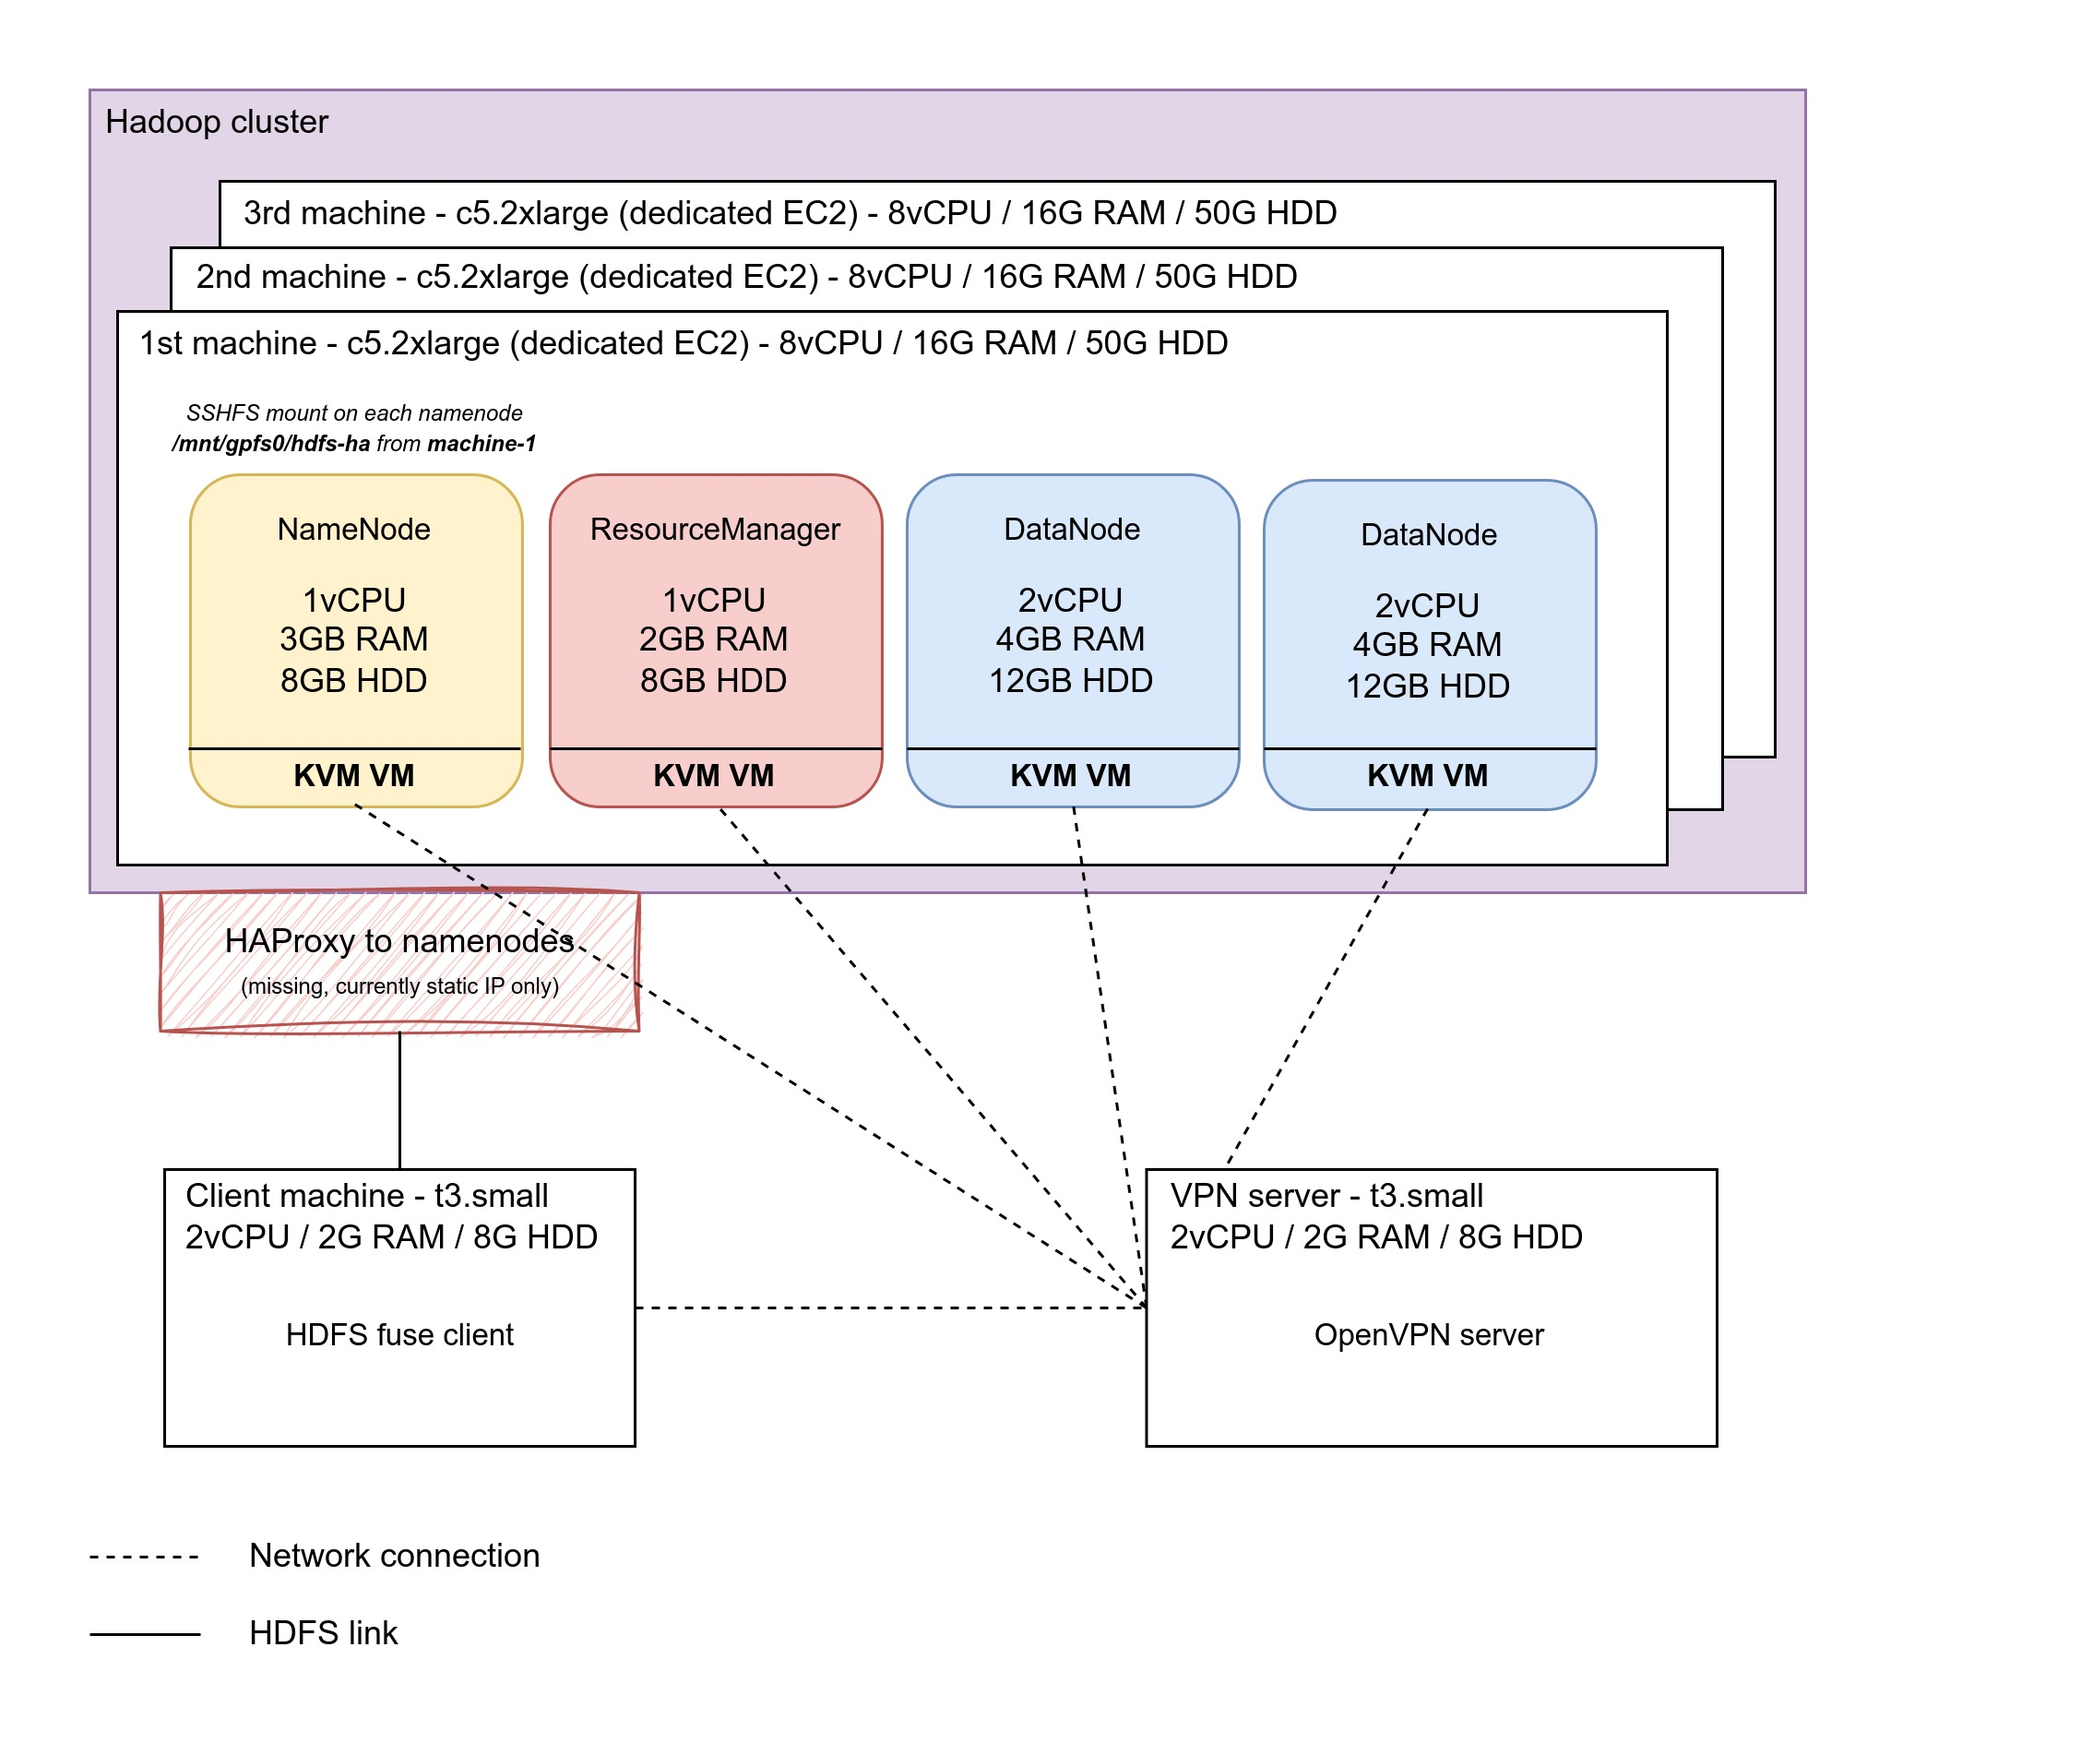
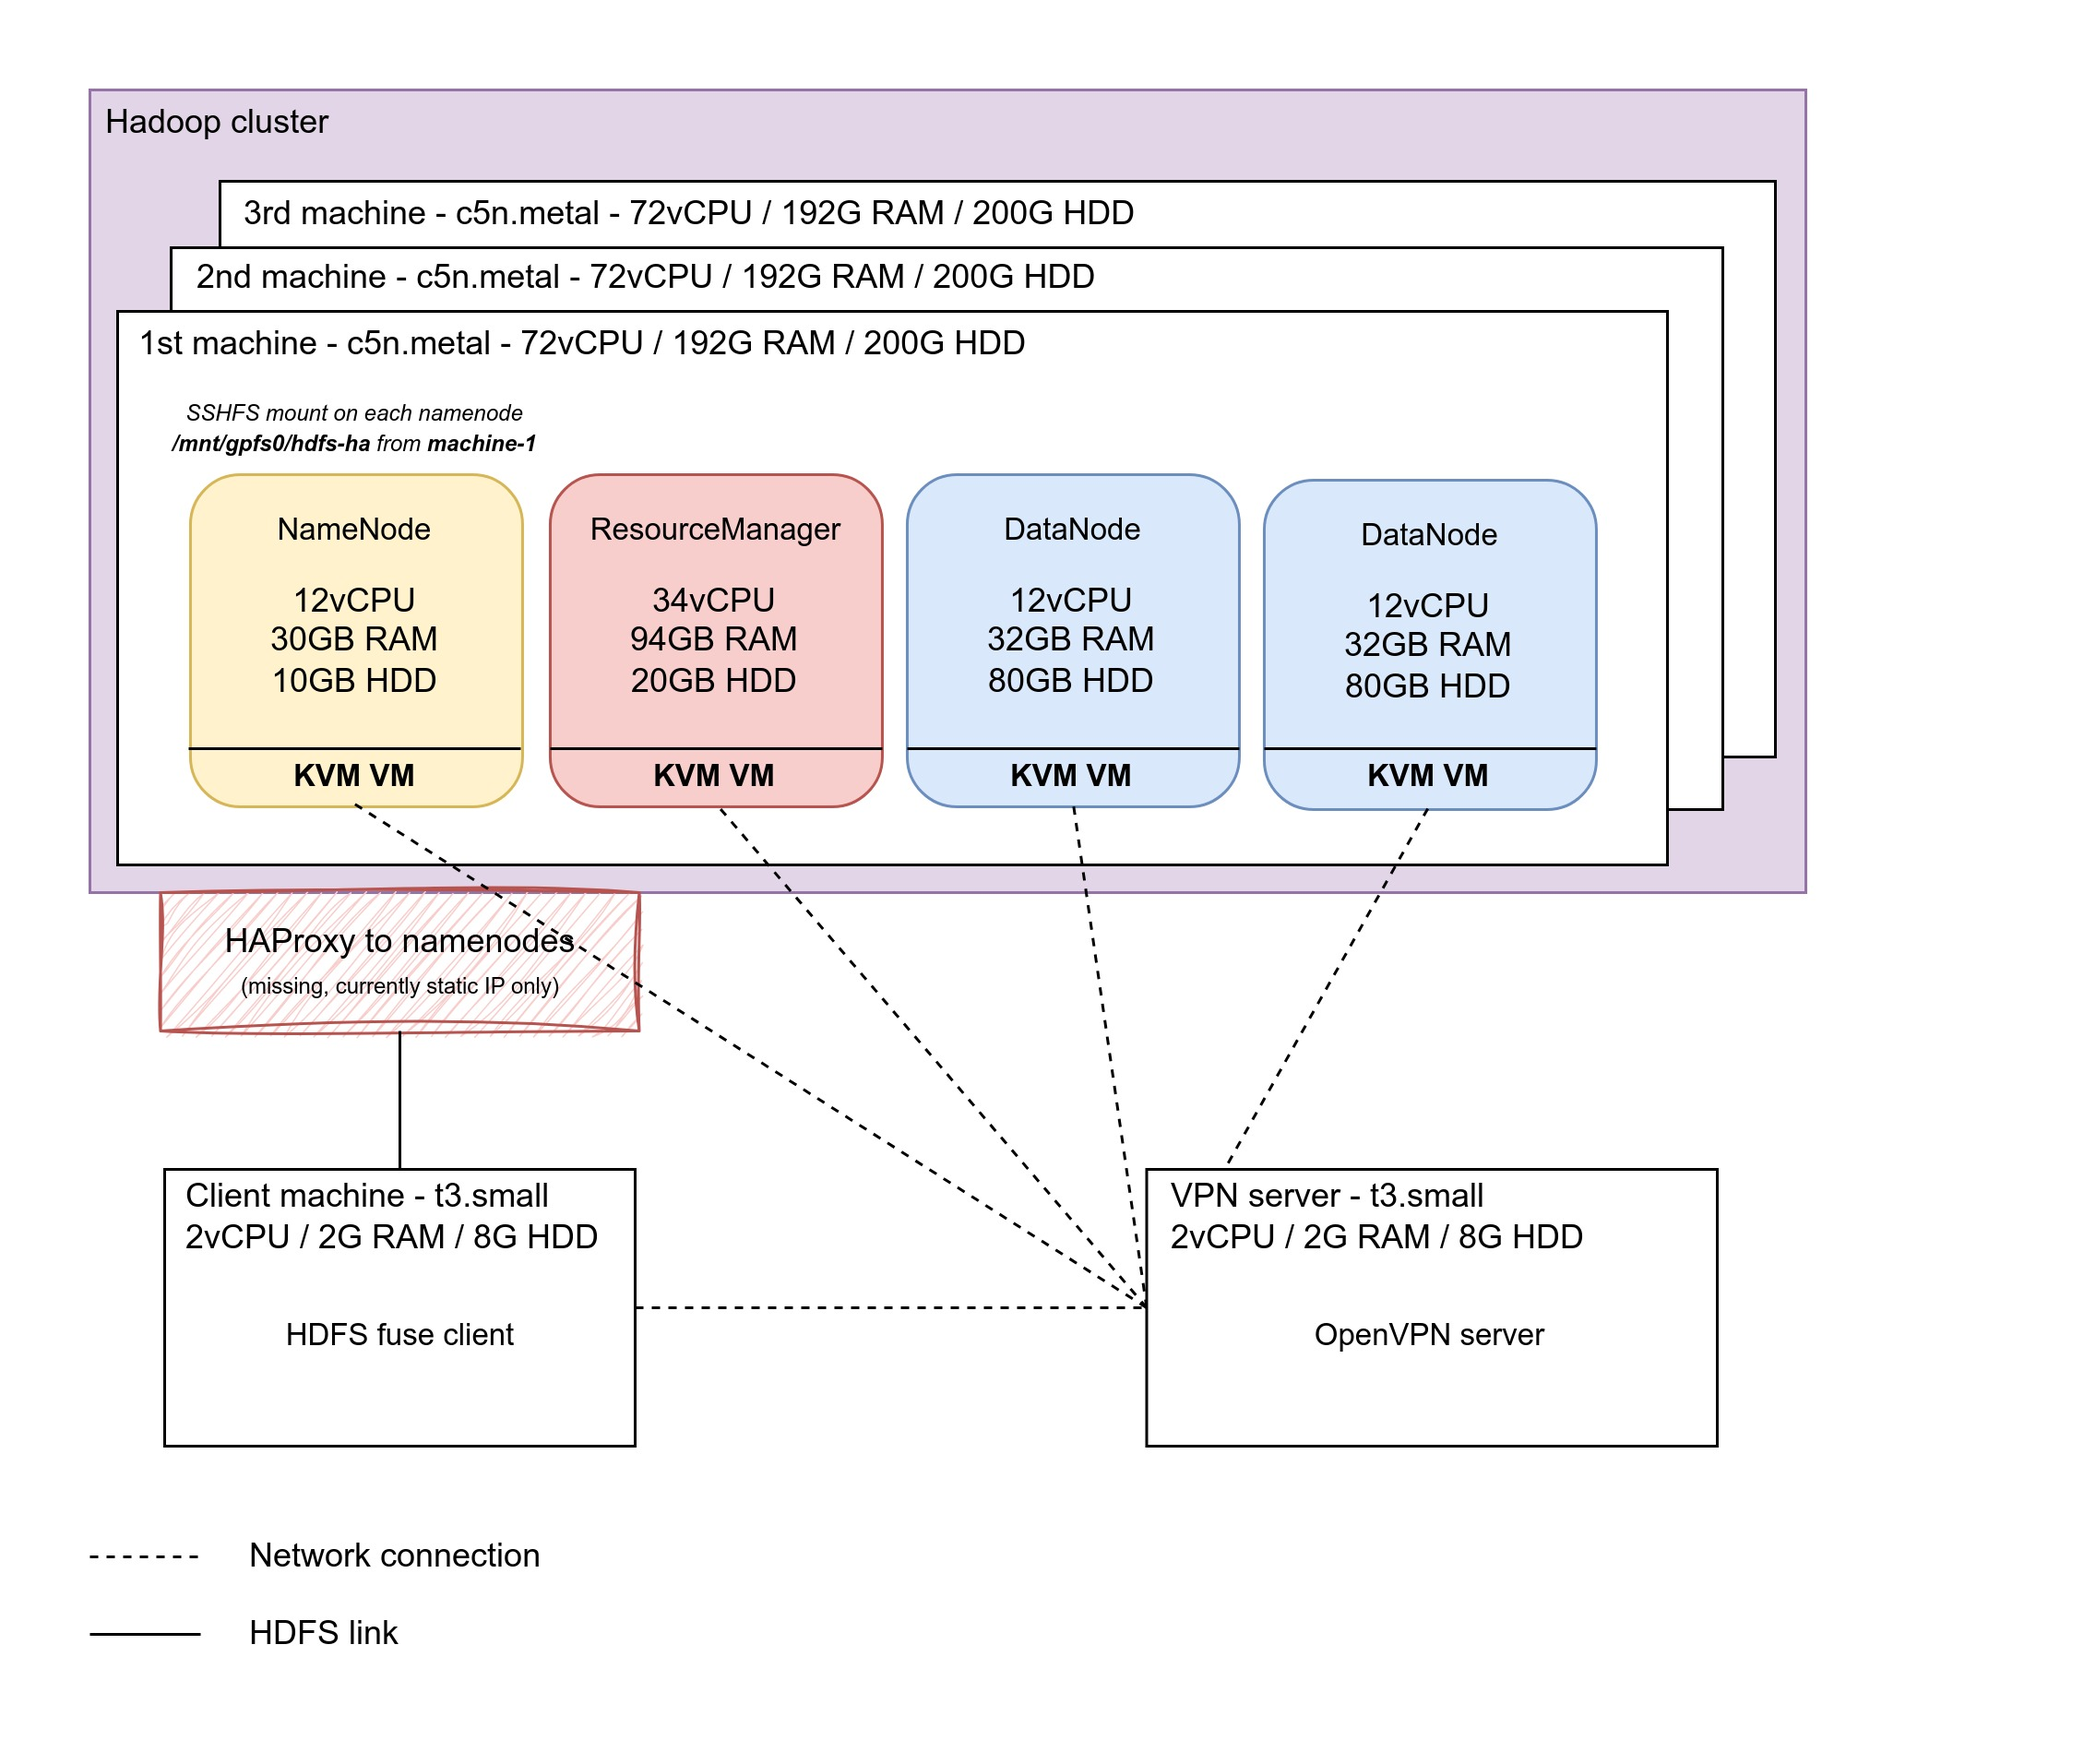
Updated documentation to use metal instances

diff --git a/README.md b/README.md
@@ -1,37 +1,36 @@
 # aws-terraform-ansible-kvm-hadoop
 
-A sample project to install Hadoop on KVM with Ansible on an AWS machine instanciated by Terraform.
+A sample project to install Hadoop on KVM with Ansible, on AWS machines instanciated by Terraform.
 
-This repo is for training purposes. If you use Cloud providers, only use KVM if you absolutely NEEDS TO. It asks for a more costly infrastructures, time-consuming instanciations, adds a layer of complexity already managed by Cloud providers (network, machines configuration) and as such is a burden to maintain. This architecture is only useful if you have big machines that must include strictly partitioned VMs.
-
-In this architecture, we will setup a VPN server to make all KVM guests communicate. This will allow us to make Hadoop nodes communicate through the VPN network.
-
-Here is an example of what you can achieve with this bunch of playbooks :
+Here is an example of HDFS storage cluster running with this project.
 
 ![DFS storage types tab](./dfs_storage_type.png)
-
 ![Hadoop cluster live datanodes](./datanodes_alive.png)
 
-## KVM in the Cloud
+## A note about KVM in the Cloud
 
-Basically, you can't do it on classic AWS [unless you have a dedicated instance](https://aws.amazon.com/blogs/aws/new-amazon-ec2-bare-metal-instances-with-direct-access-to-hardware). You are recommended to do it on a [Dedicated EC2 instance](https://aws.amazon.com/ec2/pricing/dedicated-instances).
+Basically, you can't work with KVM on a classic AWS instance [unless you have a dedicated one](https://aws.amazon.com/blogs/aws/new-amazon-ec2-bare-metal-instances-with-direct-access-to-hardware). You must choose a `*.metal` instance type (:moneybag:).
 
-As I had to ask a limit raise for my account to be able to instanciate this kind of instance, I used [Scaleway Elastic Metal](https://www.scaleway.com/en/elastic-metal/) in the meantime.
+This repo is for educational purposes. If you use Cloud providers, only use KVM if you absolutely NEEDS TO. It asks for a more costly infrastructures, time-consuming instanciations, adds a layer of complexity already managed by Cloud providers (network, machine configuration) and as such is a burden to maintain. This architecture is only useful if you have big machines that must include strictly partitioned VMs.
+
+As [Scaleway Elastic Metal](https://www.scaleway.com/en/elastic-metal/) machines are way less expensive than AWS, you will find Terraform plans and instructions for both AWS and Scaleway.
 
 ## 1. Instanciate the infrastructure
 
 ![Architecture schema](./schema.jpg)
 
+In this architecture, we will setup a VPN server to make KVM guests communicate. After setting up and connecting Hadoop nodes through the VPN network, a client will try to mount an HDFS space as a FUSE to be used as a file system.
+
+The ResourceManager described here will get the roles of ResourceManager, NodeManager and MapReduce Job History server.
+
 <details open>
-<summary>👉 Using AWS (price: 822.71$/month)</summary>
+<summary>👉 Using AWS (price: 8454.53$/month)</summary>
 
-Getting dedicated EC2 instances looks complicated in my own experience (I've contacted the customer service multiple times). You must get a significant bill during a significant amount of time to be eligible to ask having the rights to start this kind of instance.
-
-The Terraform plans present in this repository should work if you have rights to instanciate dedicated EC2 instances.
+:warning: :moneybag: Please be very careful running the Terraform plans as prices for dedicated (metal) instances are **very high**. The indicated cost is about the least expensive instance found in the North Virginia region.
 
 </details>
 
-<details open>
+<details close>
 <summary>👉 Using Scaleway (price: 303.37$/month)</summary>
 
 1. Go to your Scaleway account > [Credentials](https://console.scaleway.com/project/credentials) and create a new API key `terraform-ansible-kvm-hadoop`
@@ -57,6 +56,8 @@ The Terraform plans present in this repository should work if you have rights to
     ```bash
     terraform apply
     ```
+
+    > To terminate instances and avoid unintended spendings, use `terraform destroy`
 
 5. Edit values of our Ansible inventory file from Terraform output values
 
